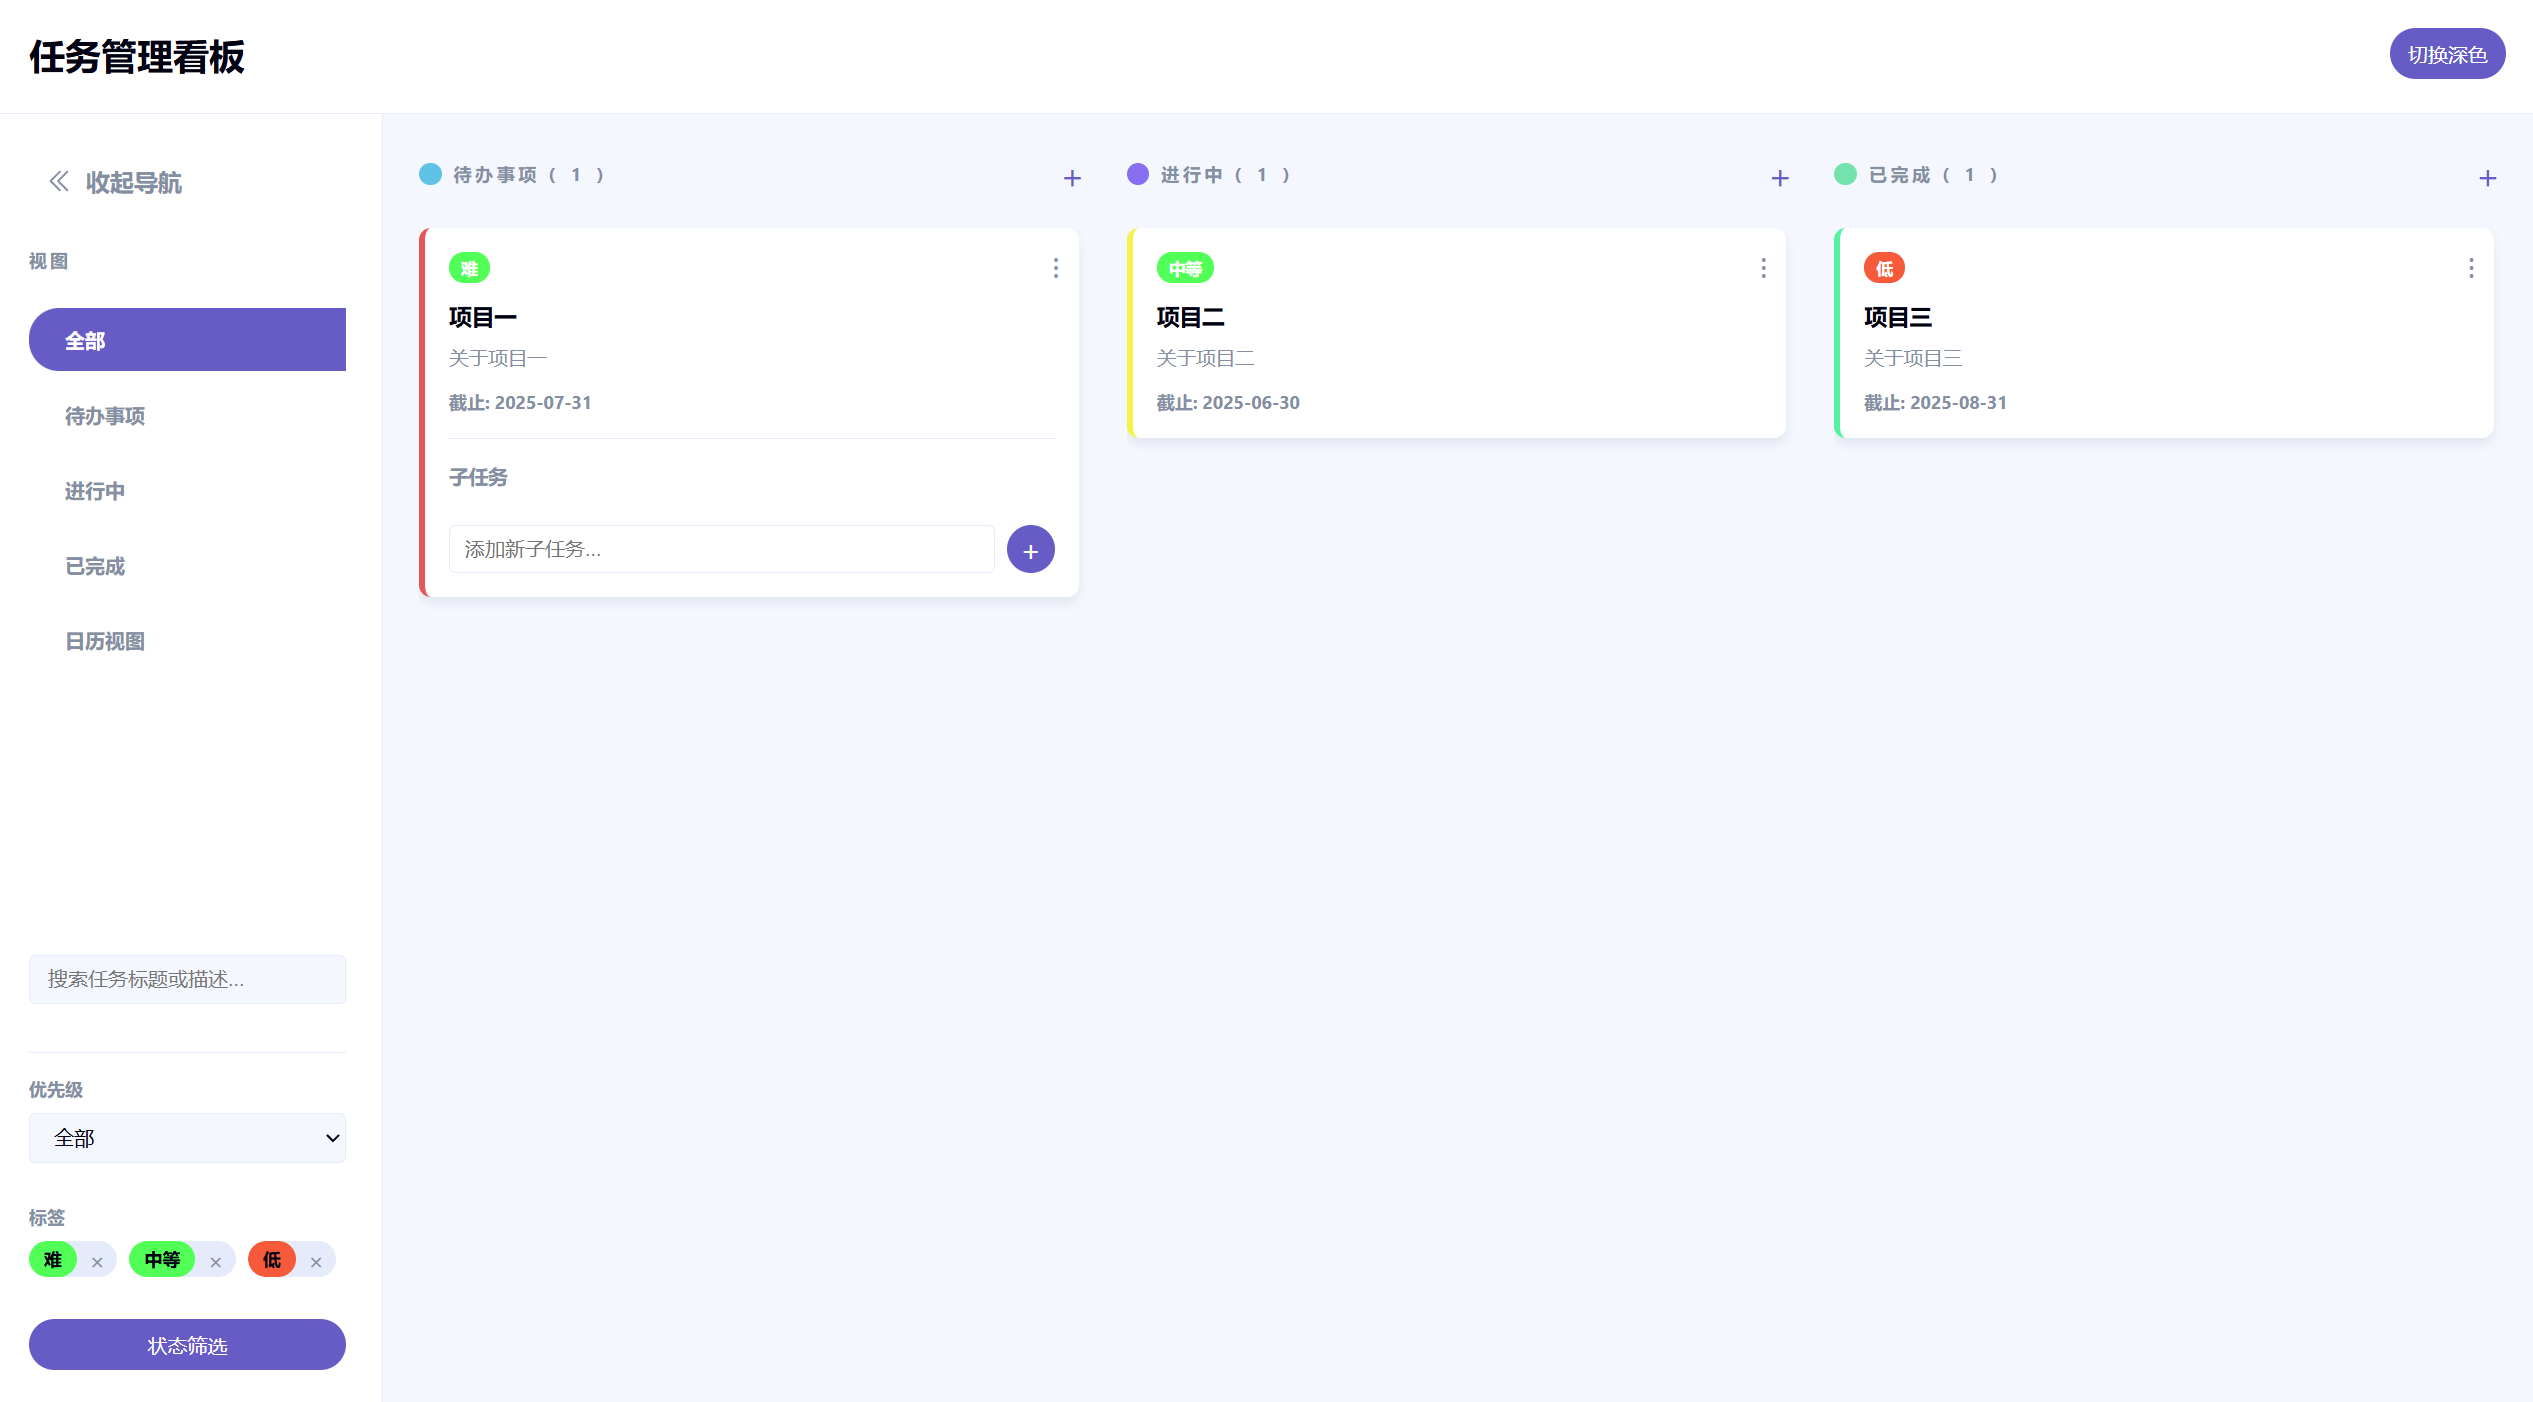
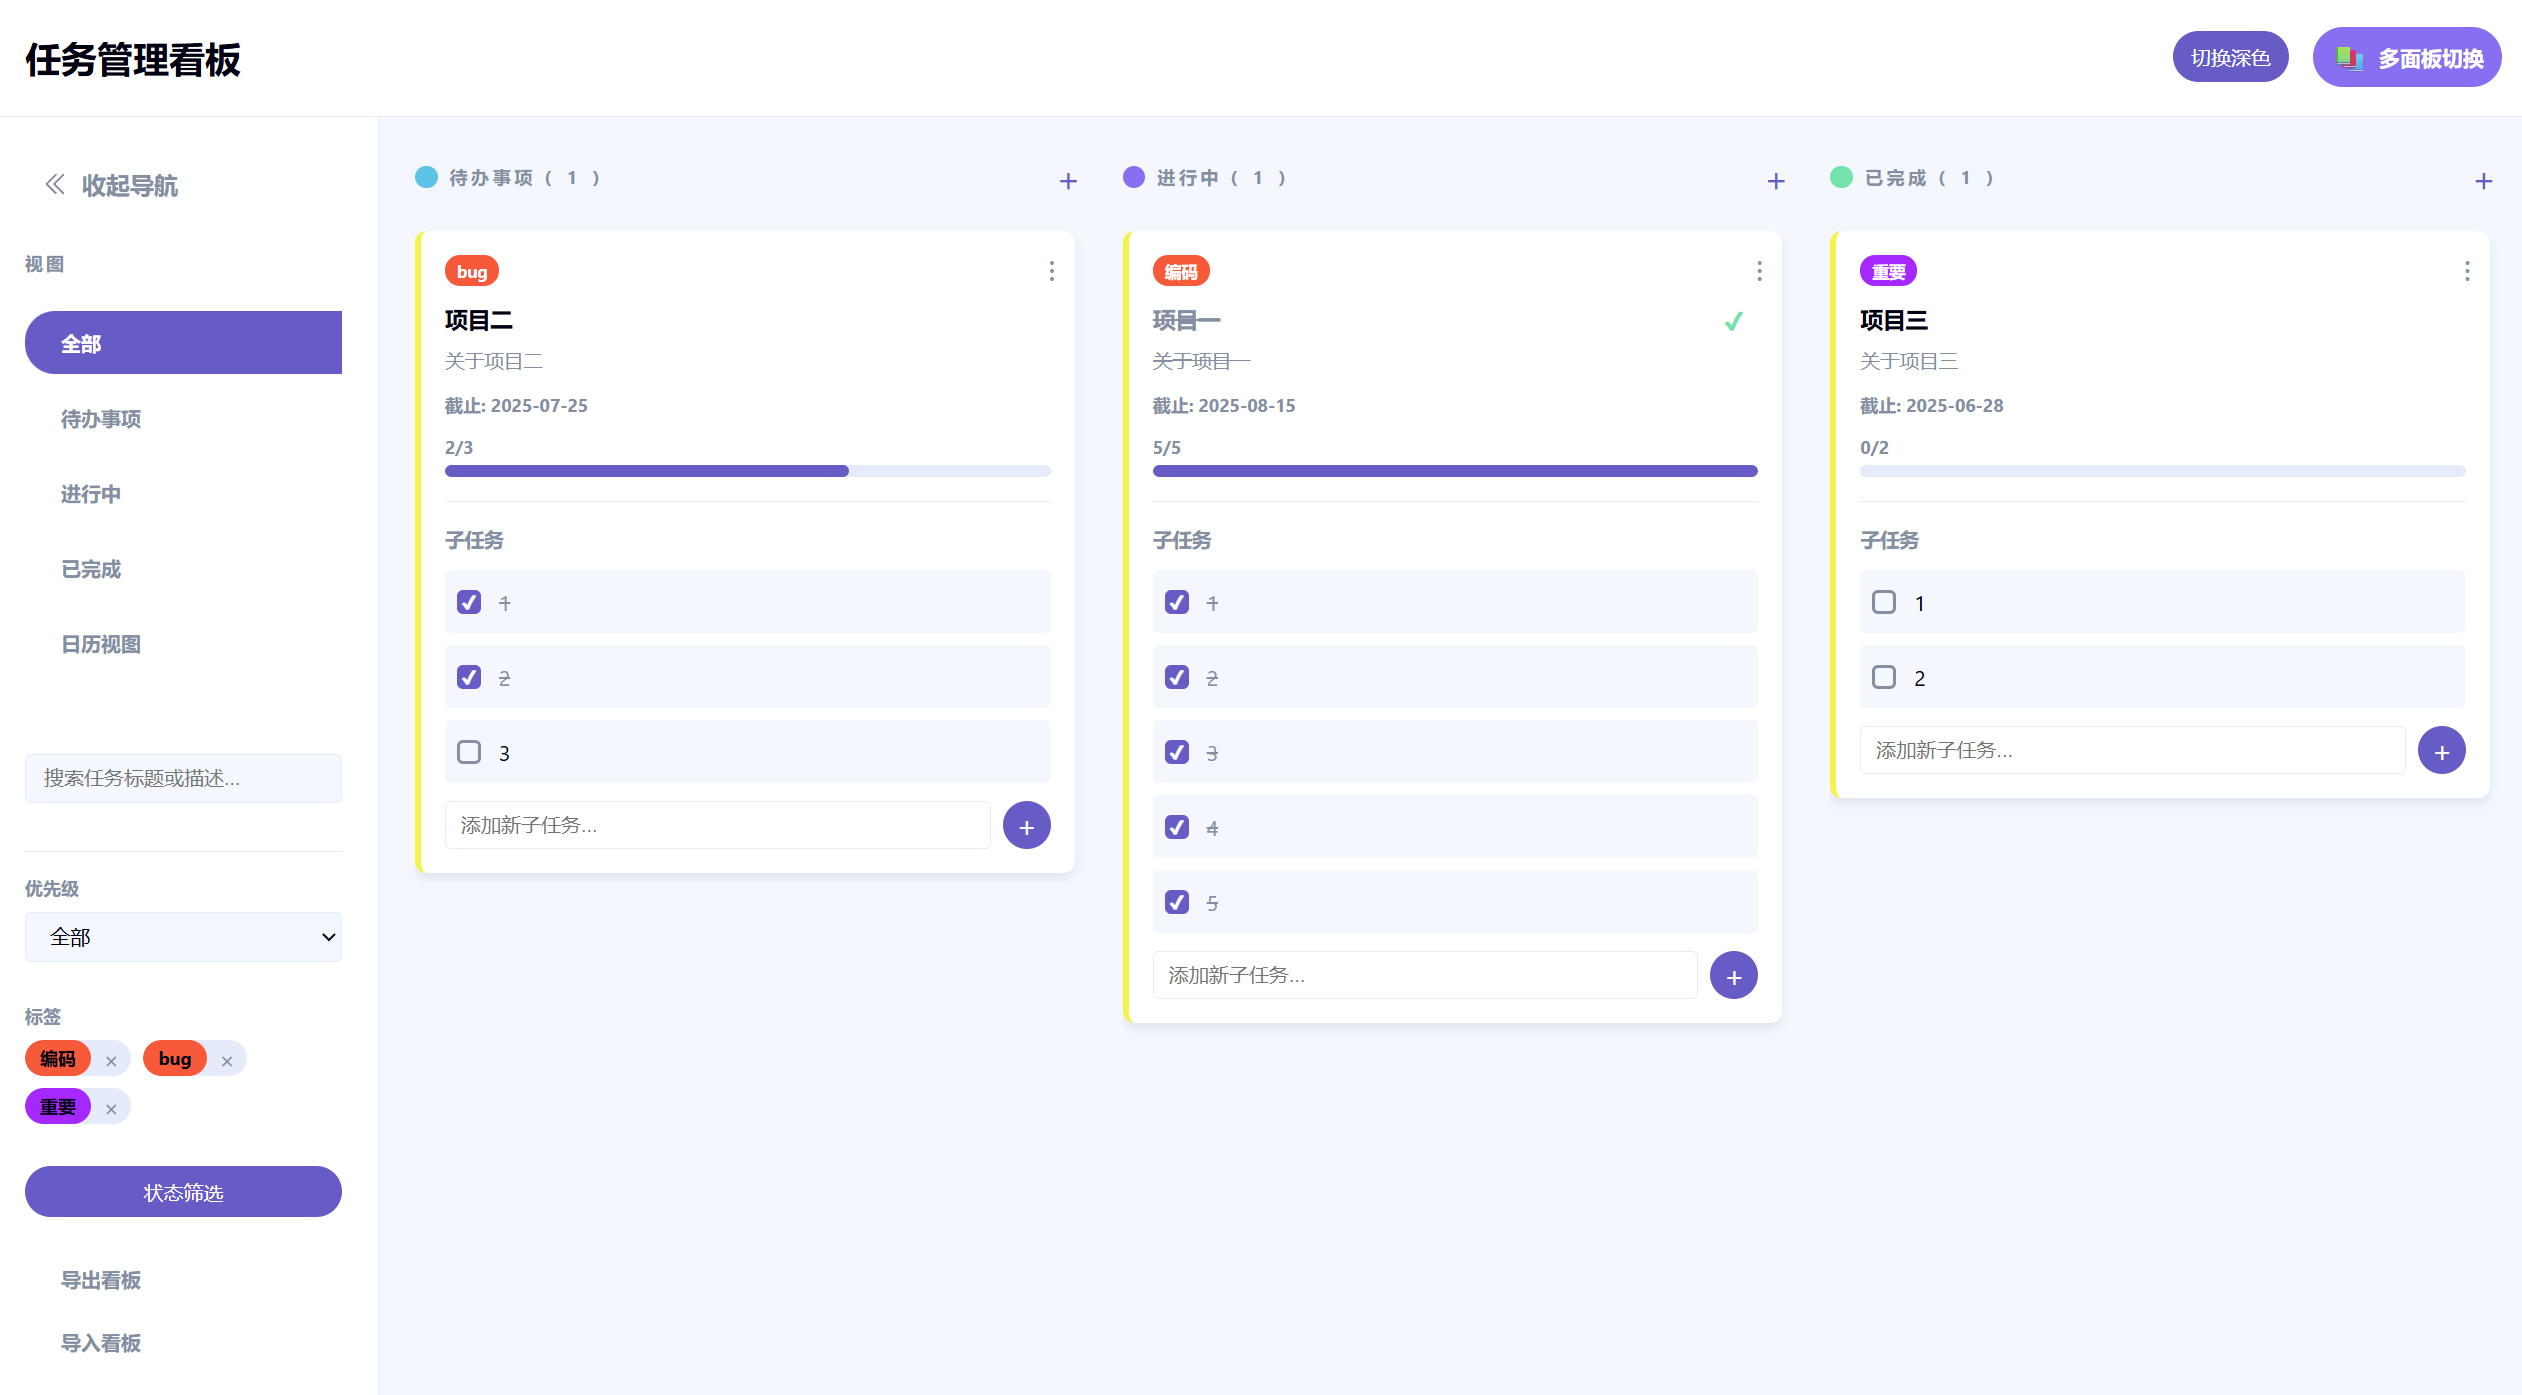
Add files via upload

diff --git a/app.js b/app.js
@@ -1791,4 +1791,97 @@ function deleteTask(taskId) {
     // 启动应用
     initApp();
 
+    /**
+     * @description 导出看板数据为JSON文件
+     */
+    function exportBoard() {
+        const boardData = {
+            tasks: tasks,
+            labels: labels,
+            version: '1.0'
+        };
+        
+        const boardName = document.querySelector('.app-header__title').textContent || '看板';
+        const timestamp = new Date().toISOString().replace(/[:.]/g, '-');
+        const filename = `kanban-${boardName}-${timestamp}.json`;
+        
+        const blob = new Blob([JSON.stringify(boardData, null, 2)], { type: 'application/json' });
+        const url = URL.createObjectURL(blob);
+        
+        const a = document.createElement('a');
+        a.href = url;
+        a.download = filename;
+        document.body.appendChild(a);
+        a.click();
+        document.body.removeChild(a);
+        URL.revokeObjectURL(url);
+    }
+
+    /**
+     * @description 导入看板数据
+     */
+    function importBoard() {
+        const input = document.createElement('input');
+        input.type = 'file';
+        input.accept = '.json';
+        
+        input.onchange = function(e) {
+            const file = e.target.files[0];
+            if (!file) return;
+            
+            const reader = new FileReader();
+            reader.onload = function(e) {
+                try {
+                    const boardData = JSON.parse(e.target.result);
+                    
+                    // 基本验证
+                    if (!boardData.tasks || !boardData.labels) {
+                        throw new Error('无效的看板文件格式');
+                    }
+                    
+                    // 处理重名看板
+                    const existingBoardNames = new Set();
+                    // 实际项目中这里需要从存储中获取已有看板列表
+                    // 此处简化处理：假设只有一个看板，导入后添加"副本"后缀
+                    const newBoardName = document.querySelector('.app-header__title').textContent + '_副本';
+                    document.querySelector('.app-header__title').textContent = newBoardName;
+                    
+                    // 导入数据
+                    tasks = boardData.tasks;
+                    labels = boardData.labels;
+                    
+                    // 保存并刷新
+                    saveTasksToStorage();
+                    renderBoard();
+                    renderLabelFilters();
+                    
+                    alert('看板导入成功！');
+                } catch (error) {
+                    console.error('导入失败:', error);
+                    alert(`导入失败: ${error.message}`);
+                }
+            };
+            reader.readAsText(file);
+        };
+        
+        input.click();
+    }
+
+    /**
+     * @description 添加导入导出功能的事件监听
+     */
+    function addImportExportListeners() {
+        document.getElementById('export-board-btn').addEventListener('click', exportBoard);
+        document.getElementById('import-board-btn').addEventListener('click', importBoard);
+    }
+
+    // 初始化导入导出功能
+    if (document.readyState === 'loading') {
+        document.addEventListener('DOMContentLoaded', addImportExportListeners);
+    } else {
+        addImportExportListeners();
+    }
+
+    // 初始化导入导出功能
+    addImportExportListeners();
 })();

diff --git a/index.html b/index.html
@@ -80,6 +80,10 @@
                     </div>
                 </div>
             </div>
+            <div class="import-export-buttons" style="margin-top: 20px; text-align: center;">
+                <button id="export-board-btn" class="nav__view-btn">导出看板</button>
+                <button id="import-board-btn" class="nav__view-btn">导入看板</button>
+            </div>
         </nav>
 
         <!-- 3. 主看板区域 -->

diff --git a/assets/README.md b/assets/README.md
@@ -24,7 +24,12 @@
 
 ### 高级功能
 - **深色/浅色主题**：一键切换主题
+- **多面板模式切换**：看板和子任务面板自由切换
 - **搜索与筛选**：按关键词、状态、优先级、标签筛选任务
+- **日历视图**：按日期查看任务分布
+- **任务提醒**：设置任务截止提醒
+- **子任务管理**：添加、编辑、删除子任务，跟踪进度
+- **数据导入/导出**：方便备份和迁移数据
 - **响应式设计**：适配移动设备
 - **本地存储**：使用localStorage保存所有数据
 - **任务进度条**：直观显示子任务完成情况
@@ -57,15 +62,17 @@
 kanban-project/
 ├── index.html          # 主页面
 ├── styles.css          # 样式文件
-├── README.md           # 项目文档
-└── js/
-    └── app.js          # 应用逻辑
+├── assets/             # 资源文件夹
+│   ├── image.png       # 示例图片
+│   ├── image2.png      # 示例图片
+│   └── README.md       # 项目文档
+├── app.js              # 应用逻辑
 ```
 
 ### 技术栈
 - HTML5
 - CSS3
-- JavaScript（ES6）
+- JavaScript（ES6+）
 - Web Storage API（localStorage）
 
 ### 数据存储
@@ -83,8 +90,6 @@ kanban-project/
 > **注意**：数据保存在浏览器本地，清除缓存将导致数据丢失
 
 ## 未来扩展
-- 团队协作支持
-- 导出/导入数据
 - 可视化统计仪表板与分析报告
 -  高级筛选与视图自定义
 
